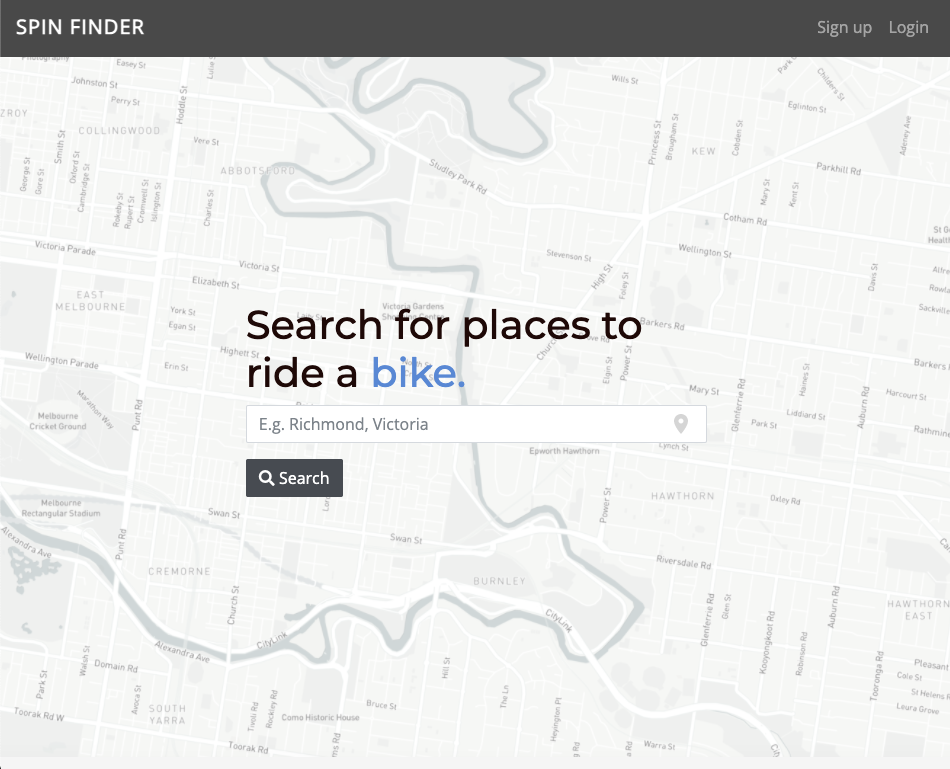
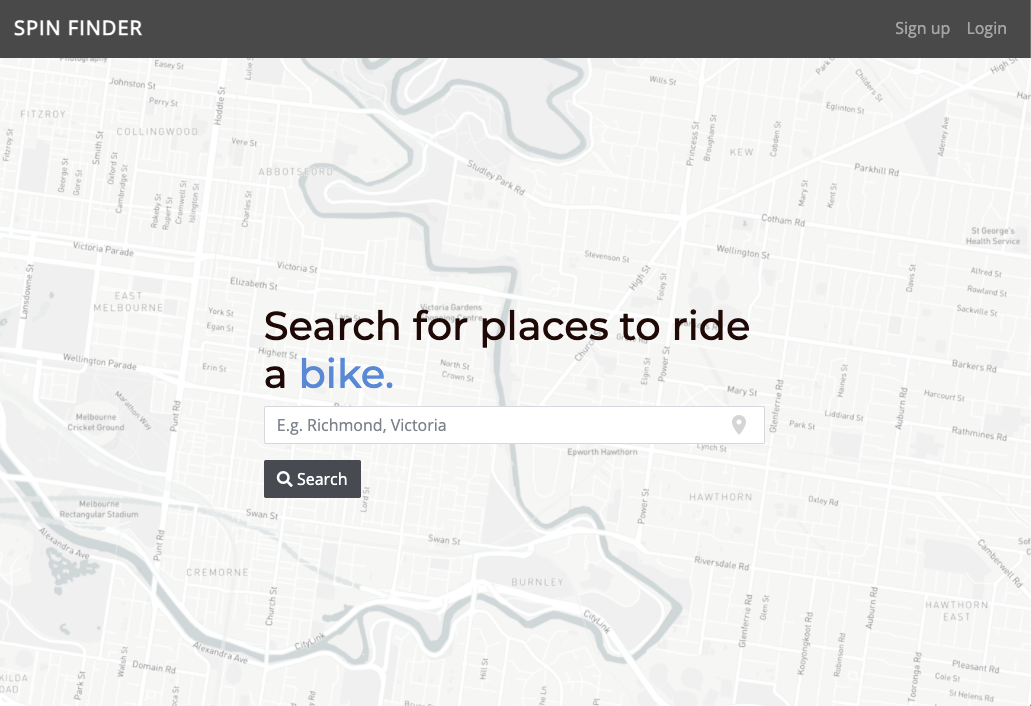
added new images

diff --git a/app/assets/stylesheets/portfolio.scss b/app/assets/stylesheets/portfolio.scss
@@ -99,7 +99,7 @@
   width: 400px;
   height: 600px;
   position: absolute;
-  right: -29px;
+  left: 140px;
   top: 37px;
   background-color: #67829B;
   height: 464px;
@@ -117,12 +117,16 @@
 
 .spin-image-position {
   // width: 710px;
-  height: 500px;
+  height: 475px;
   position: absolute;
-  left: 0;
+  right: 30px;
   top: 0;
   border-radius: 8px;
   box-shadow: rgba(60, 64, 67, 0.3) 0px 1px 2px 0px, rgba(60, 64, 67, 0.15) 0px 1px 3px 1px;
+}
+
+.spin-text {
+  position: absolute;
 }
 
 .port-rad {
